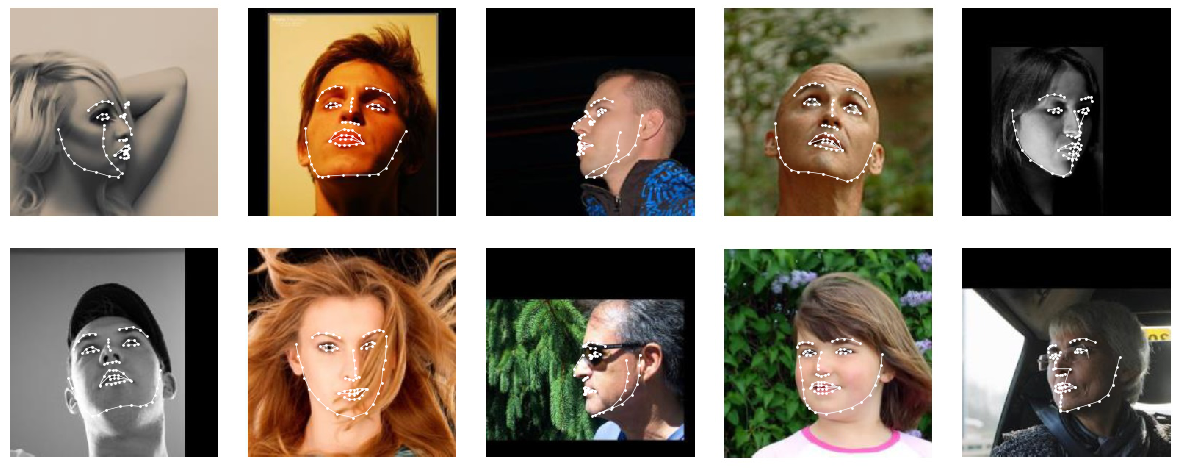
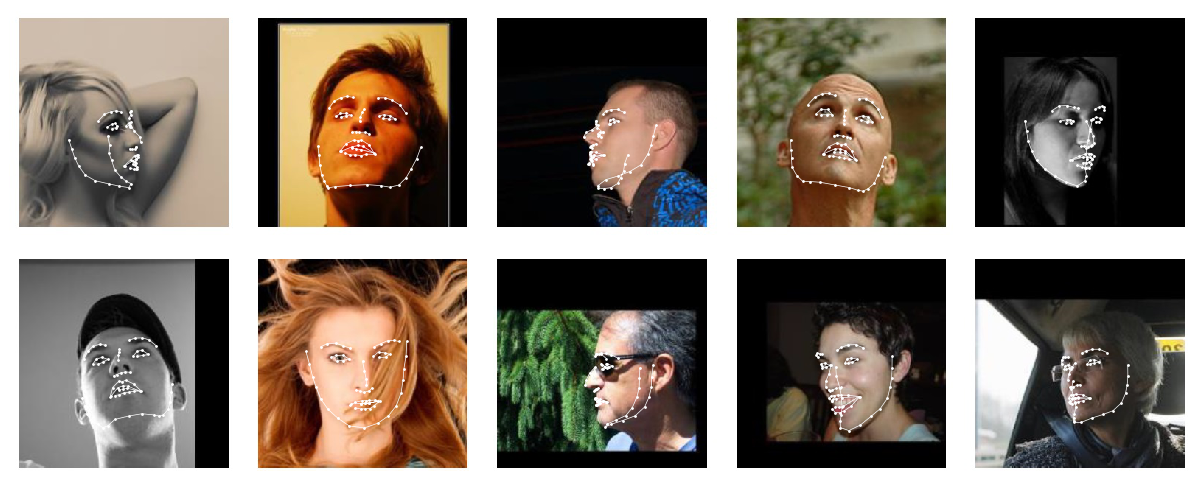
update result images

diff --git a/README.md b/README.md
@@ -71,7 +71,7 @@ Results of 2D face alignment (inferenced from model *Hourglass2(d=3)-CAB*) are s
 
 ![2D Alignment Results](https://raw.githubusercontent.com/deepinx/sdu-face-alignment/master/sample-images/landmark_test_2d.png)
 
-Results on ALFW-2000 dataset (inferenced from model *SAT2(d=3)-CAB-3D*) are shown below.
+Results on ALFW-2000 dataset (inferenced from model *Hourglass2(d=3)-CAB-3D*) are shown below.
 
 ![3D Alignment Results](https://raw.githubusercontent.com/deepinx/sdu-face-alignment/master/sample-images/landmark_test_3d.png)
 
